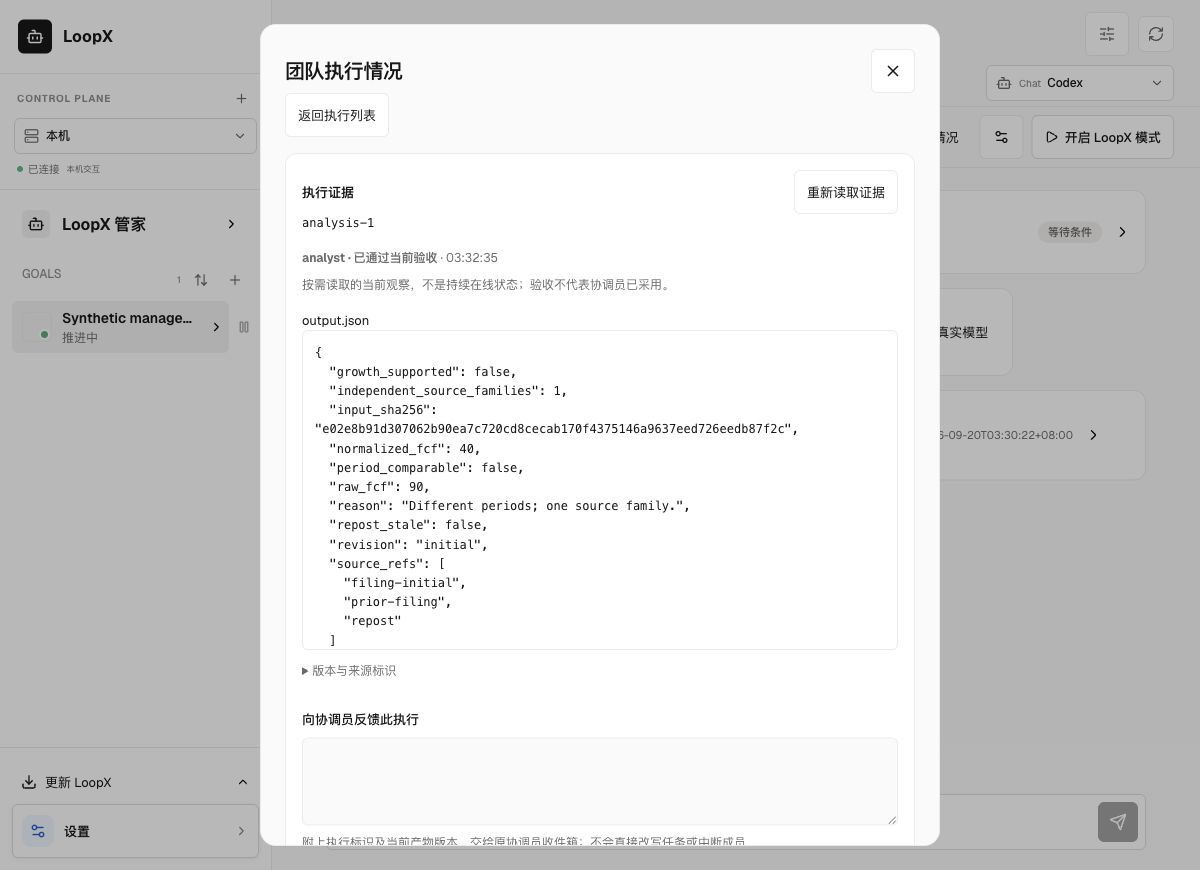
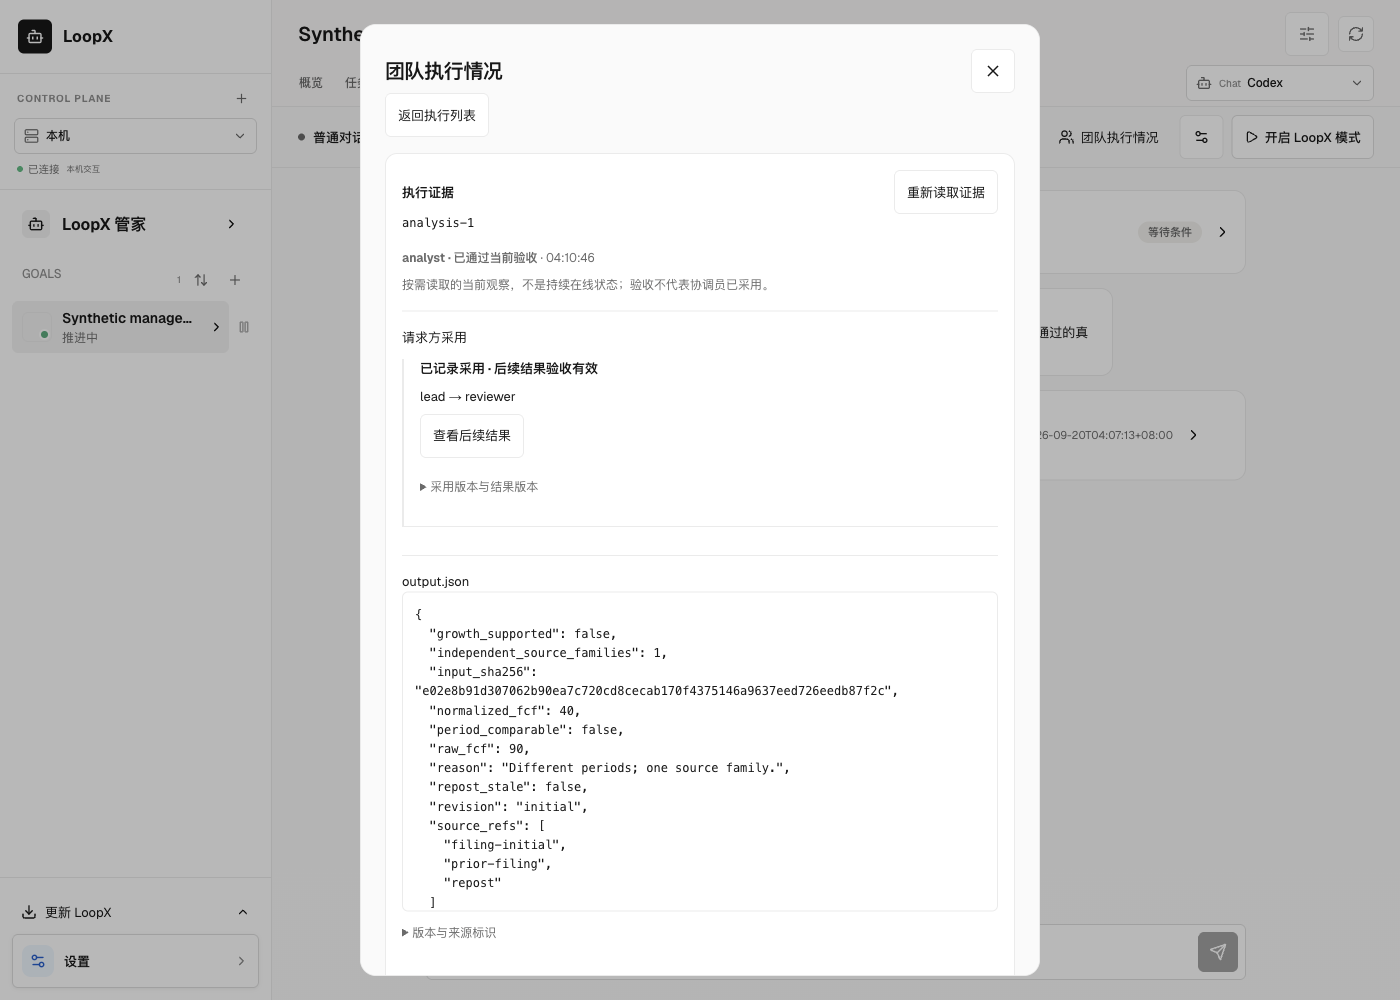
docs(collaboration): document version-bound adoption and qualification limits

diff --git a/docs/reference/local-delegation.md b/docs/reference/local-delegation.md
@@ -102,6 +102,80 @@ LoopX mode is enabled. Dashboard, CLI/managed Turn and Lark keep their existing
 conversation and runtime owners; they may consume the shared bounded route
 projection described below, but they do not get another grant or scheduler.
 
+### Bind a later result to an exact accepted version
+
+A brief input may opt into requester-scoped provenance:
+
+```json
+{
+  "ref": "inputs/accepted-analysis.json",
+  "description": "Accepted analysis to use in the synthesis",
[1 lines of base64/hex data omitted]
+  "delegation": {
+    "operation_id": "analysis-round-2",
+    "ref": "output.json",
+    "relation": "uses"
+  }
+}
+```
+
+Use the real digest from `delegate read`, not the illustrative digest above.
+`ref` addresses the receiving workspace's already supplied file; `delegation.ref`
+addresses an output of this requester's original operation. The source must be
+currently accepted and both files must match the specified hash. Start checks
+before dispatch and checks again before completing the consumer. It neither
+copies files nor grants workspace access. Existing briefs without `delegation`
+retain their behavior and readback shape.
+
+The typed relations are **requested intent**: `responds_to`, `revises` and `uses`.
+They do not assert that an objection is correct, a revision resolves it or an
+Agent has adopted a result. `read` returns the immediate dependency's specified
+version and current/unavailable observation; it does not flatten a whole team's
+graph or infer relationships from prose.
+
+After inspecting the independently accepted downstream result, the requester
+may explicitly record adoption into that result:
+
+```bash
+delegate adopt --operation-id analysis-round-2 \
+  --consumer-operation-id synthesis-round-1 --execute
+delegate read --operation-id analysis-round-2
+```
+
+Both executions must belong to this requester and remain accepted under their
+current bindings, canonical Todos, pinned validators and saved artifact hashes.
+The consumer's immutable brief must reference the source through `uses`, and
+its supplied input must still match. The receipt binds source hashes, consumer
+hashes and original request/task identities. Repeating the same decision is
+idempotent. At most twelve downstream adoption records can be attached to one
+source. Reading, receiver request acknowledgement and completing a consumer
+never create this requester decision automatically.
+
+Every read rechecks recorded adoption evidence. Changed output, missing input,
+revoked binding or failed acceptance makes that relationship `unavailable`;
+the historical reference remains visible, but its saved success is not replayed.
+This is evidence of the requester's explicit decision and a validated downstream
+artifact, not proof of model comprehension or arbitrary semantic claims. Domain
+acceptance must check substantive dependency use; matching an input hash alone
+cannot establish it. No Goal is completed and no new model is launched by adoption.
+
+MCP exposes `adopt_delegation_result(operation_id, consumer_operation_id)`;
+newly created Goal Chat tool sessions expose `action=adopt` with those fields.
+Existing native sessions keep their original schema; use the existing shell CLI
+when their tools do not include the action. Host tool approval still applies.
+The local Goal Chat evidence panel shows these version links and requester
+receipts, with direct navigation to source/downstream evidence and explicit
+missing or stale adoption. This owner-only surface does not grant Lark or shared
+audiences access. Stop supplying the optional provenance input to disable it for
+new work; existing decisions remain auditable and revalidated, not deleted.
+
+中文：输入可显式绑定当前请求方某次已验收产物及其哈希。`responds_to / revises / uses`
+只表达请求关系；不从文字或完成状态推导纠偏、采用。请求方检查后续已验收结果后，
+通过 `adopt --execute` 显式记录采用；读回重新核验源版本、接收方输入及后续产物。
+版本或验收失效时保留历史引用并显示不可核验，不重放旧成功。领域验收仍须验证实际
+使用了依赖及结论正确性。前端可沿关系打开证据、反馈或暂停协调员；整体 Goal、成员
+停止与跨受众权限均不因此改变。
+
 ### Publish bounded route readiness to the coordinator
 
 After the ignored operator file exists, register only its Goal-relative pointer

diff --git a/docs/architecture/rfcs/loopx-overall-roadmap-v0.md b/docs/architecture/rfcs/loopx-overall-roadmap-v0.md
@@ -295,9 +295,14 @@ The same owner-local panel now opens current validated artifact text and its
 version/source identifiers, accepts feedback through the original coordinator
 inbox and exposes coordinator pause with its actual scope. Stale reads clear prior
 content; delivery does not establish application, acceptance does not establish
-requester adoption, and coordinator pause does not stop workers. This inspection
-and control slice leaves correction lineage and version-bound requester adoption
-open; it is not qualification of a real objection/revision/acceptance/adoption episode.
+requester adoption, and coordinator pause does not stop workers. Optional typed
+brief inputs now bind immediate response/revision/use relationships to exact
+accepted source versions. An explicit requester adoption decision binds a current
+accepted downstream result with that exact input; the panel links both artifacts
+and withdraws current evidence when a version or acceptance fails. Domain
+validators still own substantive dependency use. File/SQLite and packaged browser
+qualification do not establish a real-model correction episode: that L1 acceptance,
+including independent objection and useful synthesis, remains open.
 This qualifies a local execution-facts readback, not the full R2 ladder: assignment
 receipt integration, provisioning, remote probes, two-cycle continuation and Lark
 qualification remain open under their existing owners.
